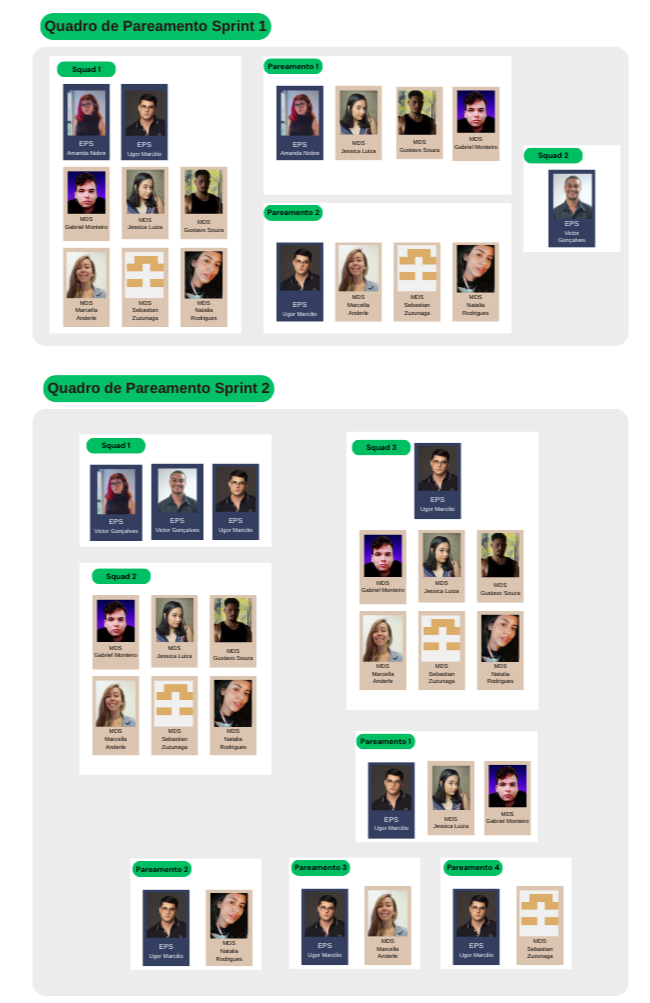
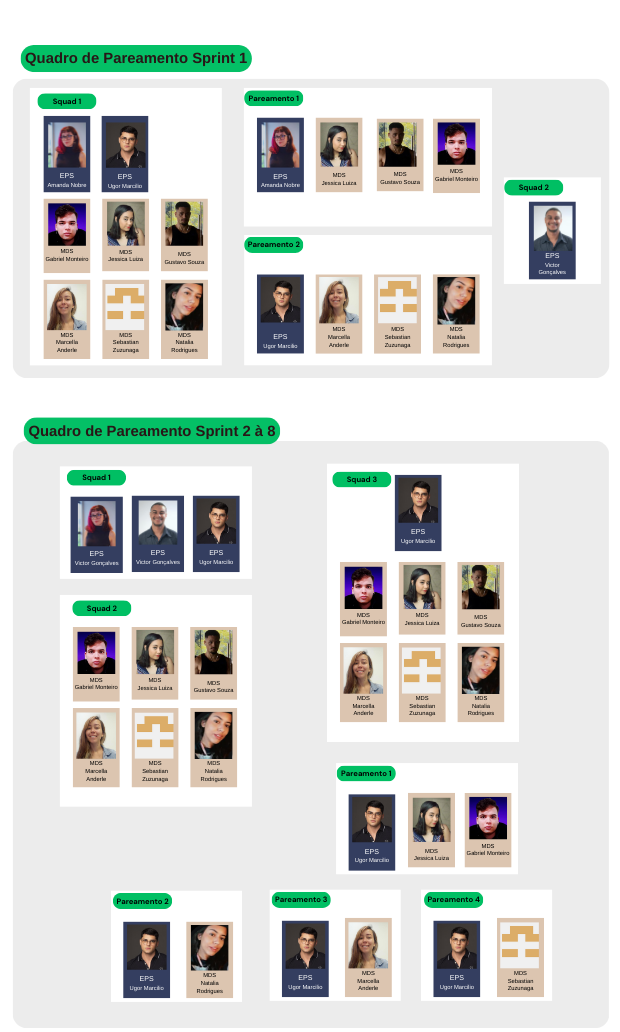
doc: Att quadro pareamento

diff --git a/docs/planejamento/quadro_de_pareamento.md b/docs/planejamento/quadro_de_pareamento.md
@@ -17,7 +17,7 @@ O quadro de pareamento é uma técnica de colaboração no desenvolvimento de so
     <li>1 EPS;</li>
 </ul>
 
-### Sprint 2:
+### Sprint 2 à 8:
 <ul>
   <li>3 EPS;</li>
   <li>6 MDS;</li>
